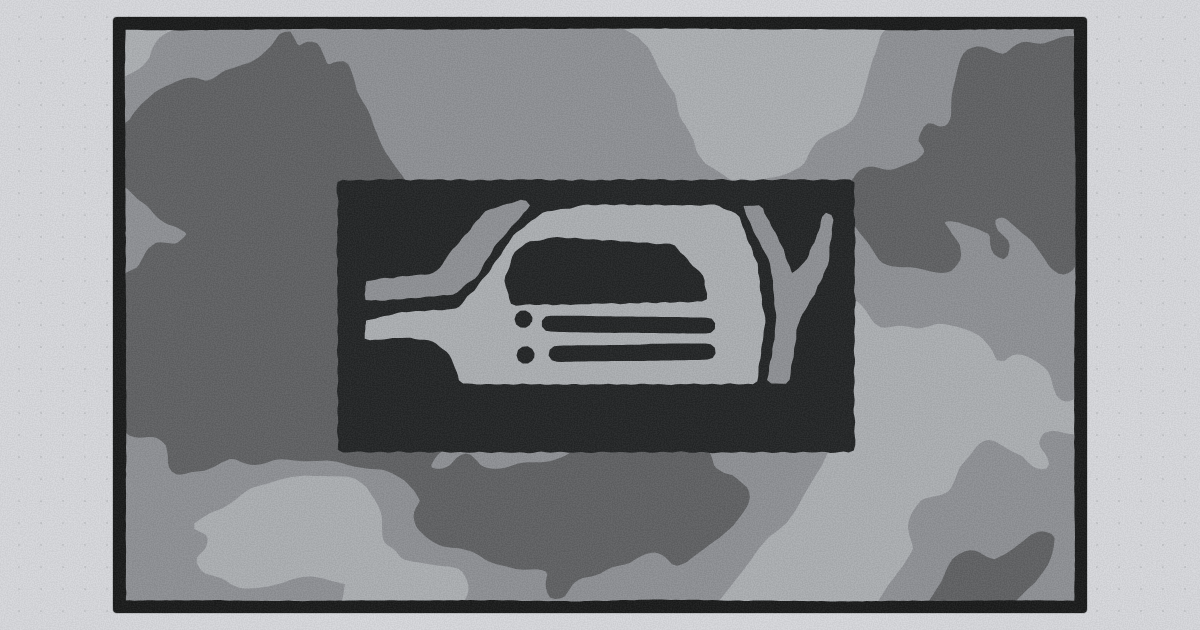
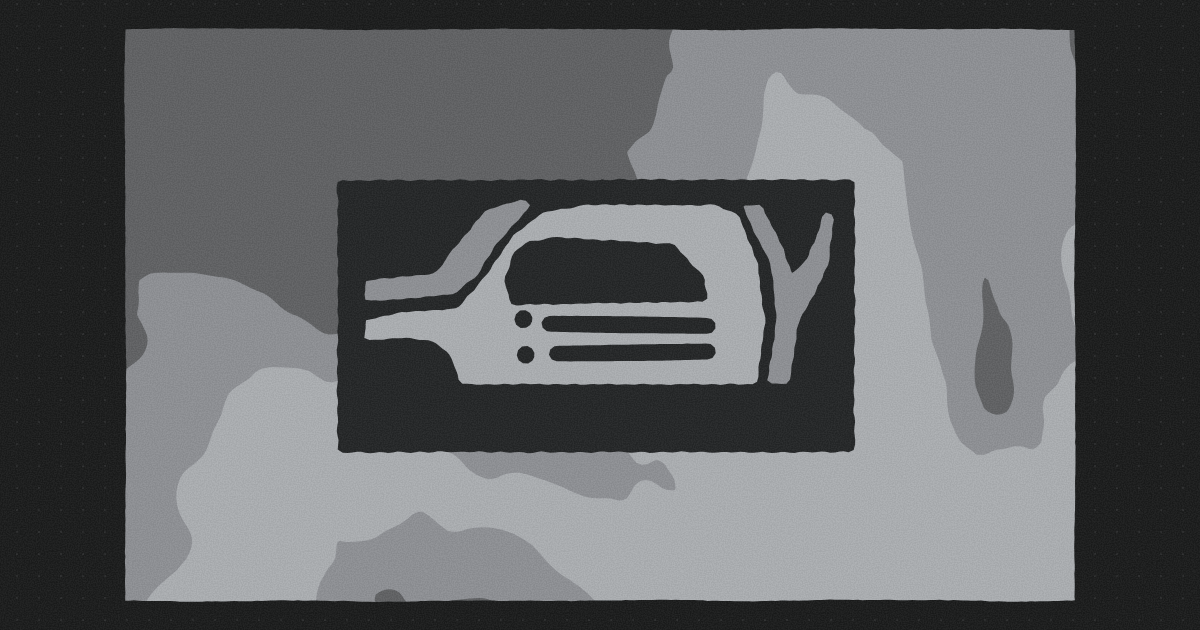
havitat auto-visualizer title and game cover

diff --git a/content/juegos/havitat/index.md b/content/juegos/havitat/index.md
@@ -1,8 +1,8 @@
 ---
 tags: [havitat, dibujo]
 type: juegos
-title: havitat
-description: la habitación dibujada, mirándose a sí misma
+title: havitat - auto-visualizer
+description: una visualización automática de havitat. la habitación recorre sus paredes sola, se detiene en sus objetos y nunca repite el mismo camino. si la tocás, te deja hacer y después sigue.
 portada: portada.png
 date: 2026-10-05
 handle: kaste

diff --git a/content/juegos/havitat/ingles.md b/content/juegos/havitat/ingles.md
@@ -1,8 +1,8 @@
 ---
 tags: [havitat, drawing]
 type: juegos
-title: havitat
-description: the drawn room, watching itself
+title: havitat - auto-visualizer
+description: an automatic visualization of havitat. the room wanders its own walls, lingers on its objects and never takes the same path twice. touch it and it lets you, then carries on.
 portada: portada.png
 date: 2026-10-05
 handle: kaste
